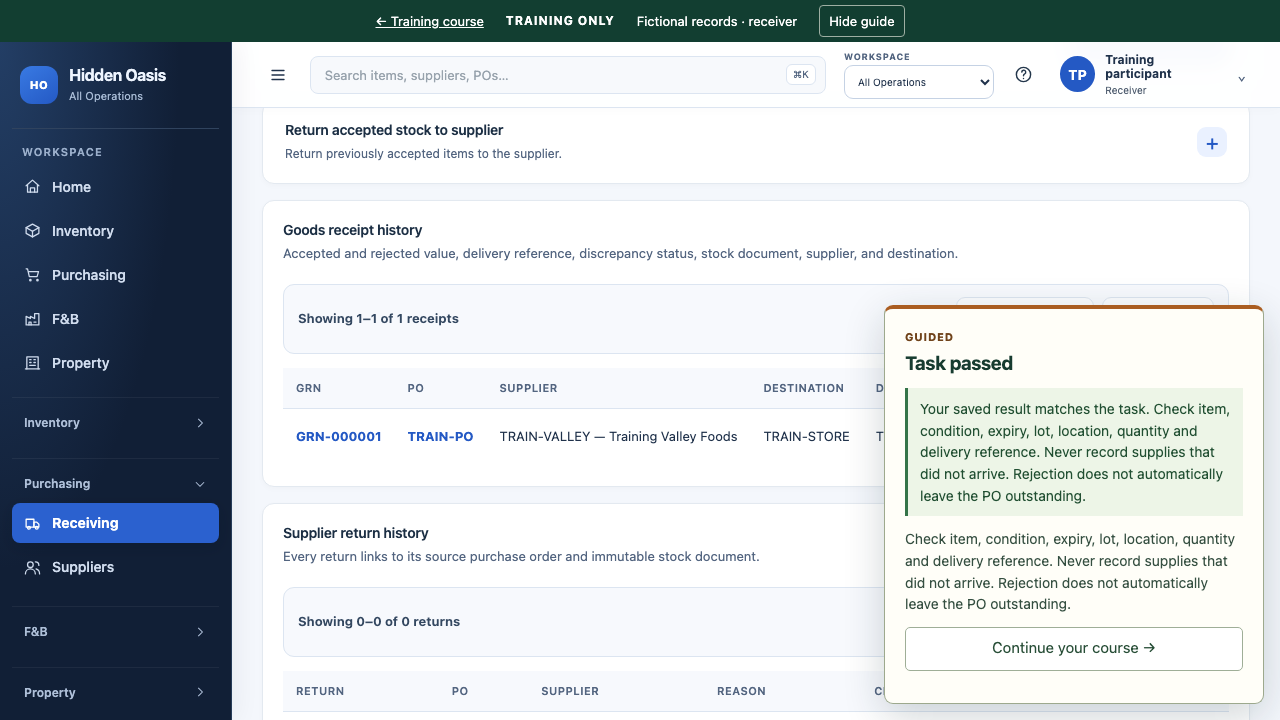
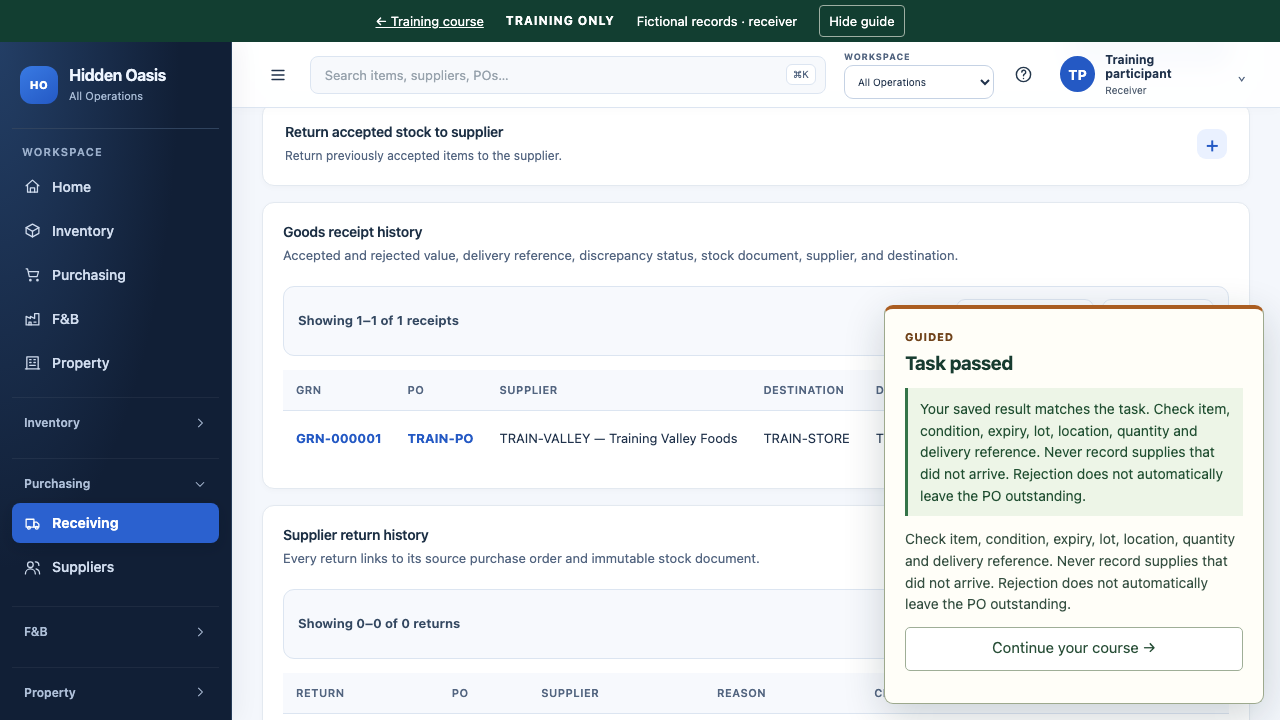
Tighten training assessments, curriculum upgrades and shared-device sign-out

diff --git a/frontend/app/training/management/page.tsx b/frontend/app/training/management/page.tsx
@@ -7,11 +7,11 @@ import "../training.css";
 
 type Learner = { id:string; name:string; role:string; attempts:TrainingAttempt[] };
 export default function Management(){
-  const[key,setKey]=useState("");const[learners,setLearners]=useState<Learner[]|null>(null);const[error,setError]=useState("");const[roles,setRoles]=useState<Record<string,string>>({});
-  async function load(){try{const[catalogue,result]=await Promise.all([api<{roles:Record<string,string>}>("/training/catalogue"),api<{learners:Learner[]}>("/training/management",{headers:{"X-Training-Manager-Key":key}})]);setRoles(catalogue.roles);setLearners(result.learners);setError("")}catch(exception){setError((exception as Error).message)}}
+  const[key,setKey]=useState("");const[learners,setLearners]=useState<Learner[]|null>(null);const[error,setError]=useState("");const[roles,setRoles]=useState<Record<string,string>>({});const[version,setVersion]=useState("");
+  async function load(){try{const[catalogue,result]=await Promise.all([api<{roles:Record<string,string>}>("/training/catalogue"),api<{learners:Learner[];version:string}>("/training/management",{headers:{"X-Training-Manager-Key":key}})]);setRoles(catalogue.roles);setVersion(result.version);setLearners(result.learners);setError("")}catch(exception){setError((exception as Error).message)}}
   async function assign(learner:Learner,role:string){try{await api("/training/assign",{method:"POST",headers:{"X-Training-Manager-Key":key},body:JSON.stringify({learner_id:learner.id,role})});await load()}catch(exception){setError((exception as Error).message)}}
   if(!trainingEnabled)return <main>Trainer review is available only in Inventory Training.</main>;
   return <main className="inventory-training"><Link href="/training">← Training course</Link><p className="training-eyebrow">Trainer review</p><h1>See where employees need help.</h1><p>Review practical results, hints and corrections. These are training records and do not change production access.</p>{error&&<p className="training-error" role="alert">{error}</p>}
-    {!learners?<form onSubmit={event=>{event.preventDefault();void load()}}><label>Trainer access code<input type="password" autoComplete="off" value={key} onChange={event=>setKey(event.target.value)}/></label><button className="training-primary">Open training progress</button></form>:<><button onClick={()=>void load()}>Refresh progress</button>{learners.map(learner=>{const independent=learner.attempts.filter(row=>row.status==="passed"&&row.mode==="independent");return <section key={learner.id} className="training-change"><h2>{learner.name}</h2><label>Assigned training path<select value={learner.role} onChange={event=>void assign(learner,event.target.value)}>{Object.entries(roles).map(([value,label])=><option key={value} value={value}>{label}</option>)}</select></label><p>{new Set(independent.map(row=>`${row.role}:${row.lesson_id}`)).size} skills demonstrated independently · {learner.attempts.reduce((total,row)=>total+row.hints,0)} hints used · {learner.attempts.reduce((total,row)=>total+row.mistakes,0)} corrections or failed actions</p><div className="table-wrap"><table><caption>Practice and assessment history for {learner.name}</caption><thead><tr><th>Lesson</th><th>Level</th><th>Result</th><th>Hints</th><th>Corrections</th><th>Started (Manila)</th></tr></thead><tbody>{learner.attempts.map(attempt=><tr key={attempt.id}><td>{attempt.lesson_id}</td><td>{attempt.mode}</td><td>{attempt.status==="passed"?"Passed":attempt.status==="reset"?"Reset; repeat recommended":"In progress"}</td><td>{attempt.hints}</td><td>{attempt.mistakes}</td><td>{new Date(attempt.started_at.replace(" ","T")+"Z").toLocaleString("en-PH",{timeZone:"Asia/Manila"})}</td></tr>)}</tbody></table></div></section>})}</>}
+    {!learners?<form onSubmit={event=>{event.preventDefault();void load()}}><label>Trainer access code<input type="password" autoComplete="off" value={key} onChange={event=>setKey(event.target.value)}/></label><button className="training-primary">Open training progress</button></form>:<><button onClick={()=>void load()}>Refresh progress</button>{learners.map(learner=>{const independent=learner.attempts.filter(row=>row.status==="passed"&&row.mode==="independent"&&row.curriculum_version===version);return <section key={learner.id} className="training-change"><h2>{learner.name}</h2><label>Assigned training path<select value={learner.role} onChange={event=>void assign(learner,event.target.value)}>{Object.entries(roles).map(([value,label])=><option key={value} value={value}>{label}</option>)}</select></label><p>{new Set(independent.map(row=>`${row.role}:${row.lesson_id}`)).size} skills demonstrated independently · {learner.attempts.reduce((total,row)=>total+row.hints,0)} hints used · {learner.attempts.reduce((total,row)=>total+row.mistakes,0)} corrections or failed actions</p><div className="table-wrap"><table><caption>Practice and assessment history for {learner.name}</caption><thead><tr><th>Lesson</th><th>Level</th><th>Result</th><th>Hints</th><th>Corrections</th><th>Started (Manila)</th></tr></thead><tbody>{learner.attempts.map(attempt=><tr key={attempt.id}><td>{attempt.lesson_id}</td><td>{attempt.mode}</td><td>{attempt.curriculum_version!==version?"Course updated; repeat recommended":attempt.status==="passed"?"Passed":attempt.status==="reset"?"Reset; repeat recommended":"In progress"}</td><td>{attempt.hints}</td><td>{attempt.mistakes}</td><td>{new Date(attempt.started_at.replace(" ","T")+"Z").toLocaleString("en-PH",{timeZone:"Asia/Manila"})}</td></tr>)}</tbody></table></div></section>})}</>}
   </main>;
 }

diff --git a/frontend/app/training/page.tsx b/frontend/app/training/page.tsx
@@ -2,7 +2,7 @@
 
 import Link from "next/link";
 import { useCallback, useEffect, useMemo, useRef, useState } from "react";
-import { api } from "../../lib/api";
+import { api, logout } from "../../lib/api";
 import { mastery, trainingEnabled, type TrainingCatalogue, type TrainingLesson, type TrainingProfile } from "../../lib/inventory-training";
 import "./training.css";
 
@@ -71,7 +71,7 @@ export default function TrainingPage() {
       {tab!=="simulations"&&<label className="training-search">Find a lesson or situation<input type="search" placeholder="Try partial delivery, count, waste…" value={search} onChange={event=>setSearch(event.target.value)}/></label>}
       {tab==="simulations"?<div className="training-simulations">{catalogue.capstones.map(capstone=><section key={capstone.id}><h2>{capstone.title}</h2><p>Work through your authorized tasks. Other roles handle their own responsibilities. Each exercise has a separate practice record.</p><ol>{capstone.lessons.map(id=>{const lesson=catalogue.lessons.find(row=>row.id===id)!;const allowed=lesson.roles.includes(profile.learner.role);return <li key={id}>{allowed?<button onClick={()=>setSelected(lesson)}>{lesson.title}</button>:<span>{lesson.title} · another role</span>}</li>})}</ol></section>)}</div>:<div className="training-lessons">{lessons.map(lesson=>{const status=mastery(profile.history,lesson,profile.learner.role);return <article key={lesson.id}><span className="training-module">{lesson.module}</span><div><button className="training-lesson-title" onClick={()=>setSelected(lesson)}>{lesson.title}</button><p>{tab==="reference"?lesson.rule:lesson.concept}</p><span className="training-skill-status">{status.independent?"Independent task passed":status.assisted?"Ready for independent assessment":status.guided?"Guided practice passed":"Ready to learn"}</span></div><button className="training-open" onClick={()=>setSelected(lesson)} aria-label={`Open ${lesson.title}`}>→</button></article>})}{!lessons.length&&<p>No matching lessons. Try a shorter word or clear the search.</p>}</div>}
       <details className="training-change"><summary>Practise another training path</summary><p>Your previous attempts stay in your history. The current practice closes when you change paths.</p><label>Responsibilities<select value={role} onChange={event=>setRole(event.target.value)}>{Object.entries(catalogue.roles).map(([key,label])=><option key={key} value={key}>{label}</option>)}</select></label><button disabled={busy} onClick={()=>void enrol()}>Use this training path</button></details>
-      <footer className="training-footer"><p>A training pass demonstrates practice competence. Production permissions require separate authorization.</p><Link href="/training/management">Trainer progress review</Link></footer>
+      <footer className="training-footer"><p>A training pass demonstrates practice competence. Production permissions require separate authorization.</p><Link href="/training/management">Trainer progress review</Link><button disabled={busy} onClick={()=>{setBusy(true);void logout().catch(exception=>{setError((exception as Error).message);setBusy(false)})}}>Sign out for another employee</button></footer>
     </>}
     {selected&&profile&&<dialog ref={lessonDialog} onCancel={()=>setSelected(null)} className="training-lesson" aria-label="Lesson overview"><button className="training-back" onClick={()=>setSelected(null)}>← Back to your course</button><p className="training-eyebrow">Module {selected.module} · Watch and understand</p><h2>{selected.title}</h2><h3>The situation</h3><p>{selected.situation}</p><h3>What this means</h3><p>{selected.concept}</p><h3>A worked example</h3><p>{selected.example}</p><h3>Remember this</h3><p className="training-rule">{selected.rule}</p><h3>Your practice</h3><p>You will work in the actual Inventory screen. Complete the saved task and answer a short check. Clicking through instructions cannot pass a transaction task.</p>
       <div className="training-levels">{(["guided","assisted","independent"] as const).map((mode,index)=>{const status=mastery(profile.history,selected,profile.learner.role);const disabled=busy||(mode==="assisted"&&!status.guided)||(mode==="independent"&&(!status.guided||!status.assisted));return <div key={mode}><strong>{index+2}. {mode==="guided"?"Guided practice":mode==="assisted"?"Try with help available":"Independent assessment"}</strong><p>{mode==="guided"?"Follow one highlighted action at a time.":mode==="assisted"?"Use the situation; request a hint if needed.":"A different task, without step-by-step guidance."}</p><button className={mode==="guided"?"training-primary":""} disabled={disabled} onClick={()=>void start(selected,mode)}>{status[mode]?"Repeat":"Start"} {mode} practice</button></div>})}</div>

diff --git a/frontend/e2e/training/practice.spec.ts b/frontend/e2e/training/practice.spec.ts
@@ -48,6 +48,22 @@ test("a new employee starts training with a clear role and next lesson",async({p
   await page.screenshot({path:`training-test-results/${info.project.name}-welcome.png`,fullPage:true});
 });
 
+test("signing out returns to onboarding and separates the next employee",async({page})=>{
+  await prepare(page,"partial-delivery","receiver");
+  const first=(await (await page.request.get("/api/v1/training/me")).json()).learner.id;
+  await page.getByRole("button",{name:/Account menu for/}).click();
+  await page.getByRole("menuitem",{name:"Sign out",exact:true}).click();
+  await expect(page.getByLabel("Your name")).toBeVisible();
+  await page.getByLabel("Your name").fill("Another employee");
+  await page.getByRole("button",{name:"Start training",exact:true}).click();
+  await expect(page.getByRole("heading",{name:"Welcome back, Another employee.",exact:true})).toBeVisible();
+  const second=await (await page.request.get("/api/v1/training/me")).json();
+  expect(second.learner.id).not.toBe(first);
+  expect(second.history).toHaveLength(0);
+  await page.getByRole("button",{name:"Sign out for another employee",exact:true}).click();
+  await expect(page.getByLabel("Your name")).toBeVisible();
+});
+
 for(const[lesson,role,answer]of[
   ["partial-delivery","receiver","no"],
   ["damaged-delivery","receiver","no"],

diff --git a/frontend/lib/api.ts b/frontend/lib/api.ts
@@ -82,6 +82,12 @@ export async function api<T>(path: string, init: RequestInit = {}): Promise<T> {
 }
 
 export async function logout() {
+  const training = process.env.NEXT_PUBLIC_INVENTORY_TRAINING === "1";
   await api<void>("/auth/logout", { method: "POST" });
-  if (typeof window !== "undefined") window.location.assign("/login?signed_out=1");
+  if (typeof window !== "undefined") {
+    if (training) {
+      for (const key of Object.keys(localStorage)) if (key.startsWith("inventory-training")) localStorage.removeItem(key);
+    }
+    window.location.assign(training ? "/training" : "/login?signed_out=1");
+  }
 }

diff --git a/backend/training/tests/test_training.py b/backend/training/tests/test_training.py
@@ -124,6 +124,15 @@ def test_knowledge_alone_never_passes_and_guide_checkpoint_is_not_evidence(learn
     assert learner.post("/api/v1/training/checkpoint",json={"step":100}).status_code == 422
 
 
+def test_opening_quantity_without_correct_valuation_does_not_pass(learner):
+    begin(learner,"opening-stock","inventory_manager")
+    response=learner.post("/api/v1/stock/receipts",json={"location_id":"training-store","lines":[{"item_id":"training-chicken","quantity":5,"unit_cost":0}]})
+    assert response.status_code==201
+    result=check(learner,"opening-stock")
+    assert not result["passed"]
+    assert "PHP 200 per kg" in result["message"]
+
+
 def test_reading_requires_observation_and_actual_record_request(learner):
     begin(learner,"available-stock","viewer")
     payload={"answer":"available","observation":"20"}
@@ -176,6 +185,15 @@ def test_independent_assessment_locked_until_both_practice_levels(learner):
     assert learner.post("/api/v1/training/start",json={"lesson_id":"issue-kitchen","mode":"independent"}).status_code==409
 
 
+def test_outdated_attempt_cannot_post_or_certify_under_a_new_curriculum(learner,app):
+    result=begin(learner,"issue-kitchen","inventory_manager")
+    with app.state.training_store.connect() as db:
+        db.execute("UPDATE attempts SET curriculum_version='old' WHERE id=?",(result["attempt_id"],))
+    assert learner.get("/api/v1/training/me").json()["attempt"] is None
+    assert learner.post("/api/v1/stock/issues",json={"location_id":"training-store","lines":[{"item_id":"training-chicken","quantity":5}]}).status_code==409
+    assert learner.post("/api/v1/training/check",json={"answer":"issue"}).status_code==409
+
+
 def test_mastery_requires_different_independent_business_outcome_and_no_hints(learner):
     from training.curriculum import BY_ID
     begin(learner,"issue-kitchen","inventory_manager")
@@ -198,6 +216,37 @@ def test_manager_roster_not_exposed_to_self_selected_owner(learner):
     begin(learner,"accounting-proof","owner")
     assert learner.get("/api/v1/training/management").status_code==403
     assert learner.post("/api/v1/training/assign",json={"learner_id":"other","role":"owner"}).status_code==403
+
+
+@pytest.mark.parametrize("active", [False, True])
+def test_sign_out_separates_employees_and_preserves_trainer_history(learner,app,active):
+    first=learner.post("/api/v1/training/enrol",json={"name":"First employee","role":"receiver"}).json()
+    if active:
+        assert learner.post("/api/v1/training/start",json={"lesson_id":"partial-delivery"}).status_code==200
+    response=learner.post("/api/v1/auth/logout")
+    assert response.status_code==204
+    assert response.headers["x-inventory-environment"]=="isolated-training"
+    assert learner.get("/api/v1/training/me").status_code==401
+    second=learner.post("/api/v1/training/enrol",json={"name":"Second employee","role":"receiver"}).json()
+    assert first["id"]!=second["id"]
+    assert learner.get("/api/v1/training/me").json()["history"]==[]
+    assert len(app.state.training_store.history(first["id"]))==int(active)
+
+
+def test_authorized_trainer_can_review_and_reassign_without_losing_history(learner,app):
+    begin(learner,"issue-kitchen","inventory_manager")
+    me=learner.get("/api/v1/training/me").json()
+    key=(app.state.training_store.root/"manager-key").read_text()
+    headers={"X-Training-Manager-Key":key}
+    roster=learner.get("/api/v1/training/management",headers=headers)
+    assert roster.status_code==200
+    assert any(row["id"]==me["learner"]["id"] for row in roster.json()["learners"])
+    response=learner.post("/api/v1/training/assign",headers=headers,json={"learner_id":me["learner"]["id"],"role":"receiver"})
+    assert response.status_code==200
+    after=learner.get("/api/v1/training/me").json()
+    assert after["learner"]["role"]=="receiver"
+    assert after["attempt"] is None
+    assert len(after["history"])==1 and after["history"][0]["status"]=="reset"
 
 
 @pytest.mark.parametrize("key,value", [("DATABASE_URL","postgresql://production/database"),("APP_ENV","production"),("JWT_SECRET","production-secret"),("INTEGRATION_ENDPOINTS_JSON",'{"accounting":"http://127.0.0.1:8000"}'),("STAFF_INTEGRATION_TOKEN","production-token"),("NEXT_PUBLIC_API_URL","https://inventory.hiddenoasis.app/api/v1")])

diff --git a/backend/training/main.py b/backend/training/main.py
@@ -82,12 +82,19 @@ def create_training_app(root: Path, *, guard_network: bool = True):
                 return JSONResponse(status_code=403, content={"detail": "Training requests must come from the training browser."})
             if request.headers.get("x-requested-with") != "HiddenOasisInventory":
                 return JSONResponse(status_code=403, content={"detail": "Missing training request verification"})
+        if path == "/api/v1/auth/logout" and request.method == "POST":
+            response = await call_next(request)
+            response.delete_cookie(cookie_name, httponly=True, secure=bool(os.environ.get("INVENTORY_TRAINING_ORIGIN")), samesite="strict")
+            response.headers["x-inventory-environment"] = "isolated-training"
+            return response
         if path.startswith("/api/v1/") and not path.startswith("/api/v1/training/") and path not in {"/api/v1/health"}:
             try:
                 learner = identity(request)
                 attempt = store.attempt(learner["id"])
                 if not attempt:
                     raise HTTPException(409, "Start your next lesson from Training.")
+                if attempt["curriculum_version"] != VERSION:
+                    raise HTTPException(409, "Training has been updated. Return to your course and start the updated lesson.")
                 request.state.training_attempt = attempt
                 if request.method != "GET" and request.headers.get("x-training-attempt") != attempt["id"]:
                     raise HTTPException(409, "This practice changed in another tab. Return to Training and continue the current lesson.")
@@ -132,6 +139,8 @@ def create_training_app(root: Path, *, guard_network: bool = True):
         attempt = store.attempt(learner["id"])
         if not attempt:
             raise HTTPException(409, "Start a lesson first.")
+        if attempt["curriculum_version"] != VERSION:
+            raise HTTPException(409, "Training has been updated. Start a new attempt from your course.")
         if attempt["lesson_id"] not in BY_ID:
             raise HTTPException(409, "The course has changed. Return to Training to choose an updated lesson.")
         return learner, attempt
@@ -165,6 +174,8 @@ def create_training_app(root: Path, *, guard_network: bool = True):
         learner = identity(request)
         cookies(response, learner["id"], learner["role"])
         attempt = store.attempt(learner["id"])
+        if attempt and attempt["curriculum_version"] != VERSION:
+            attempt = None
         inspected = False
         if attempt and attempt["lesson_id"] in BY_ID:
             path=root / f"attempt-{attempt['id']}.sqlite"

diff --git a/backend/training/curriculum.py b/backend/training/curriculum.py
@@ -6,7 +6,7 @@ a transaction lesson. Independent attempts start from a fresh, different fixture
 from dataclasses import dataclass, field, replace
 from typing import Literal
 
-VERSION = "2026.11.26.1"
+VERSION = "2026.11.26.2"
 Role = Literal["owner", "inventory_manager", "procurement_officer", "receiver", "counter", "viewer"]
 Mode = Literal["guided", "assisted", "independent"]
 ROLES = ["inventory_manager", "procurement_officer", "receiver", "counter", "viewer", "owner"]
@@ -57,7 +57,7 @@ def s(target, instruction, value=None, event="click"):
 
 
 def stock_steps(action="issue"):
-    return (
+    steps = [
         s('[data-training="stock-open"]', "Open Record a stock movement."),
         s('#stock-kind', "Choose {action_label}.", action, "change"),
         s('[name="location"]', "Choose TRAIN-STORE — Training stockroom.", "store", "change"),
@@ -66,7 +66,10 @@ def stock_steps(action="issue"):
         s('[name="reason"]', "Enter {movement_reason} as the reason.", "{movement_reason}", "input"),
         s('[data-training="stock-review"]', "Check the item, location and quantity before posting."),
         s('[data-training="confirm"]', "Post the transaction only after checking the summary."),
-    )
+    ]
+    if action == "receipt":
+        steps.insert(5,s('[name="cost"]', "Enter PHP 200 per kg as the unit cost. Do not enter the total value.", "200", "input"))
+    return tuple(steps)
 
 
 RECEIPT_STEPS = (
@@ -108,7 +111,7 @@ LESSONS = [
         "Check the base unit, conversion direction and multiplier. Ask the catalogue owner to correct errors before posting stock.",
         "How many grams are in 1 kg?", "1000", "1 kg = 1,000 g. A factor of 1,000 in the wrong direction creates a major stock error.", ("catalogue_configuration.py", "inventory_operations.py")),
     Lesson("opening-stock", "D", "Record an opening balance", STOCK, "/stock", "receipt",
-        "A new training storeroom has {quantity} kg of chicken that has not been recorded. This is opening stock, not a supplier delivery against a PO.",
+        "A new training storeroom has {quantity} kg of chicken at PHP 200 per kg that has not been recorded. This is opening stock, not a supplier delivery against a PO.",
         "Opening stock establishes a starting record. Receiving against a purchase order belongs in Receiving. Quantity is the amount; unit cost is the cost of one base unit.",
         "A starting balance of 5 kg at PHP 200 per kg is PHP 1,000 of inventory. Never enter the total value as the quantity.",
         "Record the correct location, base-unit quantity and evidence. Investigate errors through the authorized correction workflow.",

diff --git a/backend/training/scenarios.py b/backend/training/scenarios.py
@@ -180,7 +180,11 @@ def verify(db: Session, lesson: Lesson, mode: str) -> tuple[bool, dict]:
         expected = start + q if workflow == "receipt" else start - q
         exact = len(docs) == 1 and len(docs[0].movements) == (2 if workflow == "transfer" else 1)
         movement_item = v["practice_item"]
-        ok = exact and actual == expected and all(movement.item_id == movement_item for movement in docs[0].movements) and sum((Decimal(movement.quantity) for movement in docs[0].movements if movement.location_id == IDS["store"]), Decimal(0)) == (q if workflow == "receipt" else -q)
+        expected_cost=Decimal(50) if lesson.id=="housekeeping-supplies" else Decimal(200)
+        actor_documents=list(db.scalars(select(StockDocument).where(StockDocument.posted_by_user_id==IDS["actor"])).all())
+        ok = exact and len(actor_documents)==1 and actual == expected and all(movement.item_id == movement_item and Decimal(movement.unit_cost)==expected_cost for movement in docs[0].movements) and sum((Decimal(movement.quantity) for movement in docs[0].movements if movement.location_id == IDS["store"]), Decimal(0)) == (q if workflow == "receipt" else -q)
+        if workflow=="receipt" and not ok:
+            result["correction"]="Record only the starting quantity in the situation, at PHP 200 per kg. Unit cost is the price of one kg, not zero or the total value. Reset this practice if an incorrect opening transaction was already posted."
         if workflow == "transfer":
             ok = ok and balance(db, location="kitchen") == q
         result.update(expected_quantity=str(expected), document_ids=[doc.id for doc in docs])

diff --git a/docs/training/HANDOFF.md b/docs/training/HANDOFF.md
@@ -71,11 +71,11 @@ All 37 definitions have independent assessment mode; 24 assess transactions and 
 Local results on 26 November 2026 (Manila):
 
 - Existing Inventory backend suite: **307 passed, 5 skipped**. The skipped tests require capabilities not available in the local SQLite run; this is not a PostgreSQL certification.
-- Training backend suite: **81 passed**, including all lesson fixtures, real outcomes for ten receiving cases, blind masking, role/location boundaries, independent count approval, stock/production/procurement, concurrent users, resets, stale tabs, manager access, prerequisite enforcement, hint handling, configuration rejection and outbound-network denial.
-- Browser suite: **68 passed** in Chromium: desktop and Pixel 7 emulation. It performs actual selections, inputs, confirmations and postings. Every guided target must be in the visible viewport and must not overlap the coach. Saved-count resume and incorrect-input correction pass.
+- Training backend suite: **86 passed**, including all lesson fixtures, real outcomes for ten receiving cases, blind masking, role/location boundaries, independent count approval, stock/production/procurement, concurrent users, resets, stale tabs, manager access, prerequisite enforcement, hint handling, configuration rejection and outbound-network denial.
+- Browser suite: **70 passed** in Chromium: desktop and Pixel 7 emulation. It performs actual selections, inputs, confirmations and postings. Every guided target must be in the visible viewport and must not overlap the coach. Saved-count resume and incorrect-input correction pass.
 - Axe checks report no serious/critical violations in the new onboarding area and guide/banner on both viewports. This is not a full WCAG audit of every inherited Inventory screen or a screen-reader certification.
 - Training Next standalone build and TypeScript checks pass. Compiled API proxy and opening route are verified before recording the package's training identity.
-- macOS arm64 native package built with PyInstaller 6.16.0 and checksum-verified official Node 22.23.5. The frozen API and complete launcher start successfully; interruption fixes are exercised through that package. The complete 68-case desktop/mobile walkthrough suite passed against the compiled macOS API and bundled standalone web server after release-specific recovery fixes. Windows builds/workflows exist but are not locally verified. Unsigned/ad-hoc packaging is not Developer ID signing or notarization.
+- macOS arm64 native package built with PyInstaller 6.16.0 and checksum-verified official Node 22.23.5. The frozen API and complete launcher start successfully; interruption fixes are exercised through that package. The complete 70-case desktop/mobile walkthrough suite passed against the compiled macOS API and bundled standalone web server after release-specific recovery fixes. Windows builds/workflows exist but are not locally verified. Unsigned/ad-hoc packaging is not Developer ID signing or notarization.
 - Production browser inspection was attempted but the browser access host was unavailable. UI fidelity is supported by reusing the current source and browser workflows, not by a live production side-by-side inspection.
 
 Screenshots: [course](screenshots/course.png), [desktop receiving](screenshots/desktop-receiving.png), [mobile receiving](screenshots/mobile-receiving.png), [desktop count](screenshots/desktop-count.png), [mobile count](screenshots/mobile-count.png), [verified task result](screenshots/desktop-result.png). They show actual practice screens. CI uploads the complete HTML report, traces on failures and screenshots.
@@ -88,7 +88,7 @@ This is a guarantee within the maintained training entry point/configuration, no
 
 ## Corrective evaluation
 
-A separate beginner-oriented pass checked terminology, missing steps, empty values, wrong quantities, interruptions and repeated attempts. It found and corrected: invalid synthetic email validation in the real account endpoint; guide advancement before backend posting completed; overlay overlap near right-edge buttons; mobile dialogs hidden behind the guide; report answers being checked before records loaded; location-planning responses overwriting a newer selection; blind quantities leaking through assessment evidence; old curriculum passes satisfying new prerequisites; and task panels obstructing assisted work. Regression checks cover these behaviors where applicable. This was an engineering evaluation, not an independent hospitality-employee usability study.
+A separate beginner-oriented pass checked terminology, missing steps, empty values, wrong quantities, interruptions and repeated attempts. It found and corrected: invalid synthetic email validation in the real account endpoint; guide advancement before backend posting completed; overlay overlap near right-edge buttons; mobile dialogs hidden behind the guide; report answers being checked before records loaded; location-planning responses overwriting a newer selection; blind quantities leaking through assessment evidence; old curriculum passes satisfying new prerequisites; task panels obstructing assisted work; zero-cost opening stock passing assessment; and sign-out retaining the previous employee identity. Regression checks cover these behaviors where applicable. This was an engineering evaluation, not an independent hospitality-employee usability study.
 
 ## Provisional quality audit
 
@@ -102,7 +102,7 @@ These are engineering judgments against the **entire master brief**, not predete
 | Instruction clarity | 8 | Core tasks exercised; expand units, damaged/expired inspection details and decision variants |
 | Guided practice | 8 | Visible targets, response waits and both viewports verified; remaining workflow controls need coverage |
 | Scenario realism | 7 | Synthetic stock/PO/count/yield outcomes are real; linked days and wider item variety remain |
-| Error recovery | 8 | Reset, saved-count resume, stale tabs and preserved history work; cross-device recovery and remaining unposted form drafts and cross-device recovery remain |
+| Error recovery | 8 | Reset, saved-count resume, stale tabs and preserved history work; cross-device recovery and remaining unposted form drafts remain |
 | Role relevance | 8 | Real roles/scopes enforced; fuller department paths and simultaneous assignments remain |
 | Assessment quality | 6 | Real outcomes gate posting skills; expand multi-objective judgment tasks and calibrate role exams |
 | Desktop usability | 8 | Automated workflows pass; independent human review still needed |
@@ -110,7 +110,7 @@ These are engineering judgments against the **entire master brief**, not predete
 | Accessibility | 8 | Targeted axe/keyboard controls; full inherited-screen and assistive-technology audits remain |
 | Isolation/safety | 9 | Fail-closed config, per-attempt DBs, masking and egress tests; native/hosted environment checks still needed |
 | Maintainability | 8 | Typed lessons, separate fixtures/validators and drift gates; reusable registry migration/version tooling can improve |
-| Automated testing | 8 | 81 training + 68 browser checks; all variants, full PostgreSQL and linked capstones remain |
+| Automated testing | 8 | 86 training + 70 browser checks; all variants, full PostgreSQL and linked capstones remain |
 | Deployment reliability | 5 | Standalone web build verified; actual private hosting, Windows validation and signed distribution remain |
 
 The final commit SHA and pull request URL are supplied in the delivery message/PR metadata. Completion, deployment and independent fidelity certification are deliberately not claimed.

diff --git a/docs/training/INSTALLATION.md b/docs/training/INSTALLATION.md
@@ -6,7 +6,7 @@ This is a separate application. Do not reuse the operational Inventory checkout,
 
 Employees open the training link supplied by their trainer, enter their name, and select the work they were assigned. Continue Training restores their saved attempt. They need no Docker, database setup, API address or developer tools. Training uses fictional records; passing a path does not grant production permissions.
 
-For a prepared desktop distribution, open **Hidden Oasis Inventory Training**. The launcher starts a local API and web server and opens the course. Keep the application running while training. Return in the same browser profile to retain the participant session. Clearing browser cookies loses the self-service resume identity; a trainer must recover records from the private training state. Cross-device authenticated identity is not implemented.
+For a prepared desktop distribution, open **Hidden Oasis Inventory Training**. The launcher starts a local API and web server and opens the course. Keep the application running while training. Return in the same browser profile to retain the participant session. Use **Sign out for another employee** before handing over a shared device. Sign-out preserves trainer history but removes the browser resume identity. Clearing browser cookies also loses the self-service resume identity; a trainer must recover records from the private training state. Cross-device authenticated identity is not implemented.
 
 macOS builds are unsigned/ad-hoc, not Developer ID signed or notarized. Windows builds require the Windows CI result before distribution. Do not instruct employees to disable OS security controls. A private browser deployment is the alternative for managed devices; it still requires a separately provisioned host and access protection.
 
